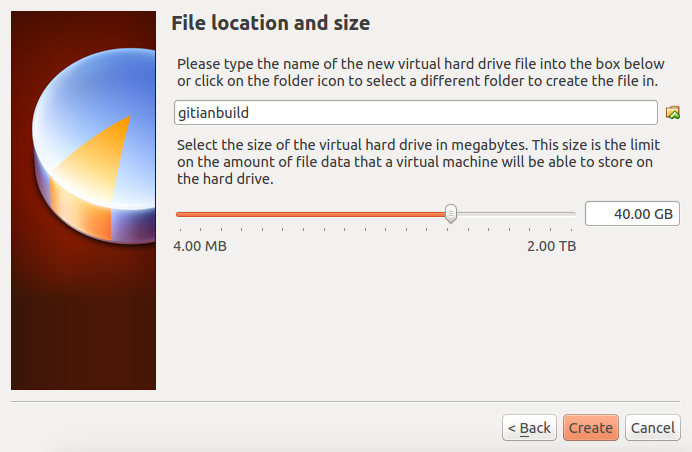
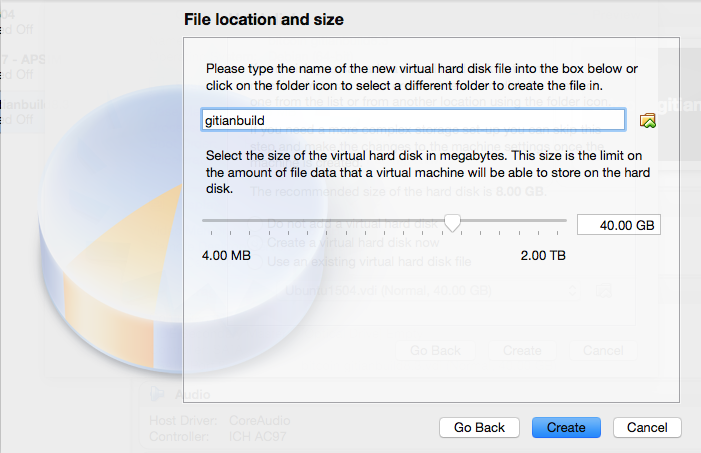
[Doc] Update gitian build guide to debian 8.4.0

diff --git a/doc/gitian-building.md b/doc/gitian-building.md
@@ -47,7 +47,7 @@ You can also install Gitian on actual hardware instead of using virtualization.
 
 Create a new VirtualBox VM
 ---------------------------
-In the VirtualBox GUI click "Create" and choose the following parameters in the wizard:
+In the VirtualBox GUI click "New" and choose the following parameters in the wizard:
 
 ![](gitian-building/create_new_vm.png)
 
@@ -74,13 +74,6 @@ In the VirtualBox GUI click "Create" and choose the following parameters in the 
 - File location and size: at least 40GB; as low as 20GB *may* be possible, but better to err on the safe side
 - Click `Create`
 
-Get the [Debian 8.x net installer](http://cdimage.debian.org/debian-cd/8.3.0/amd64/iso-cd/debian-8.3.0-amd64-netinst.iso) (a more recent minor version should also work, see also [Debian Network installation](https://www.debian.org/CD/netinst/)).
-This DVD image can be validated using a SHA256 hashing tool, for example on
-Unixy OSes by entering the following in a terminal:
-
-    echo "dd25bcdde3c6ea5703cc0f313cde621b13d42ff7d252e2538a11663c93bf8654  debian-8.3.0-amd64-netinst.iso" | sha256sum -c
-    # (must return OK)
-
 After creating the VM, we need to configure it.
 
 - Click the `Settings` button, then go to the `Network` tab. Adapter 1 should be attached to `NAT`.
@@ -101,6 +94,13 @@ After creating the VM, we need to configure it.
   - Guest Port: `22`
 
 - Click `Ok` twice to save.
+
+Get the [Debian 8.x net installer](http://cdimage.debian.org/debian-cd/8.4.0/amd64/iso-cd/debian-8.4.0-amd64-netinst.iso) (a more recent minor version should also work, see also [Debian Network installation](https://www.debian.org/CD/netinst/)).
+This DVD image can be validated using a SHA256 hashing tool, for example on
+Unixy OSes by entering the following in a terminal:
+
+    echo "7a6b418e6a4ee3ca75dda04d79ed96c9e2c33bb0c703ca7e40c6374ab4590748  debian-8.4.0-amd64-netinst.iso" | sha256sum -c
+    # (must return OK)
 
 Then start the VM. On the first launch you will be asked for a CD or DVD image. Choose the downloaded iso.
 
@@ -159,6 +159,10 @@ To select a different button, press `Tab`.
   - Select disk to partition: SCSI1 (0,0,0)
 
 ![](gitian-building/debian_install_12_choose_disk.png)
+
+  - Partition Disks -> *All files in one partition*
+
+![](gitian-building/all_files_in_one_partition.png)
 
   - Finish partitioning and write changes to disk -> *Yes* (`Tab`, `Enter` to select the `Yes` button)
 
